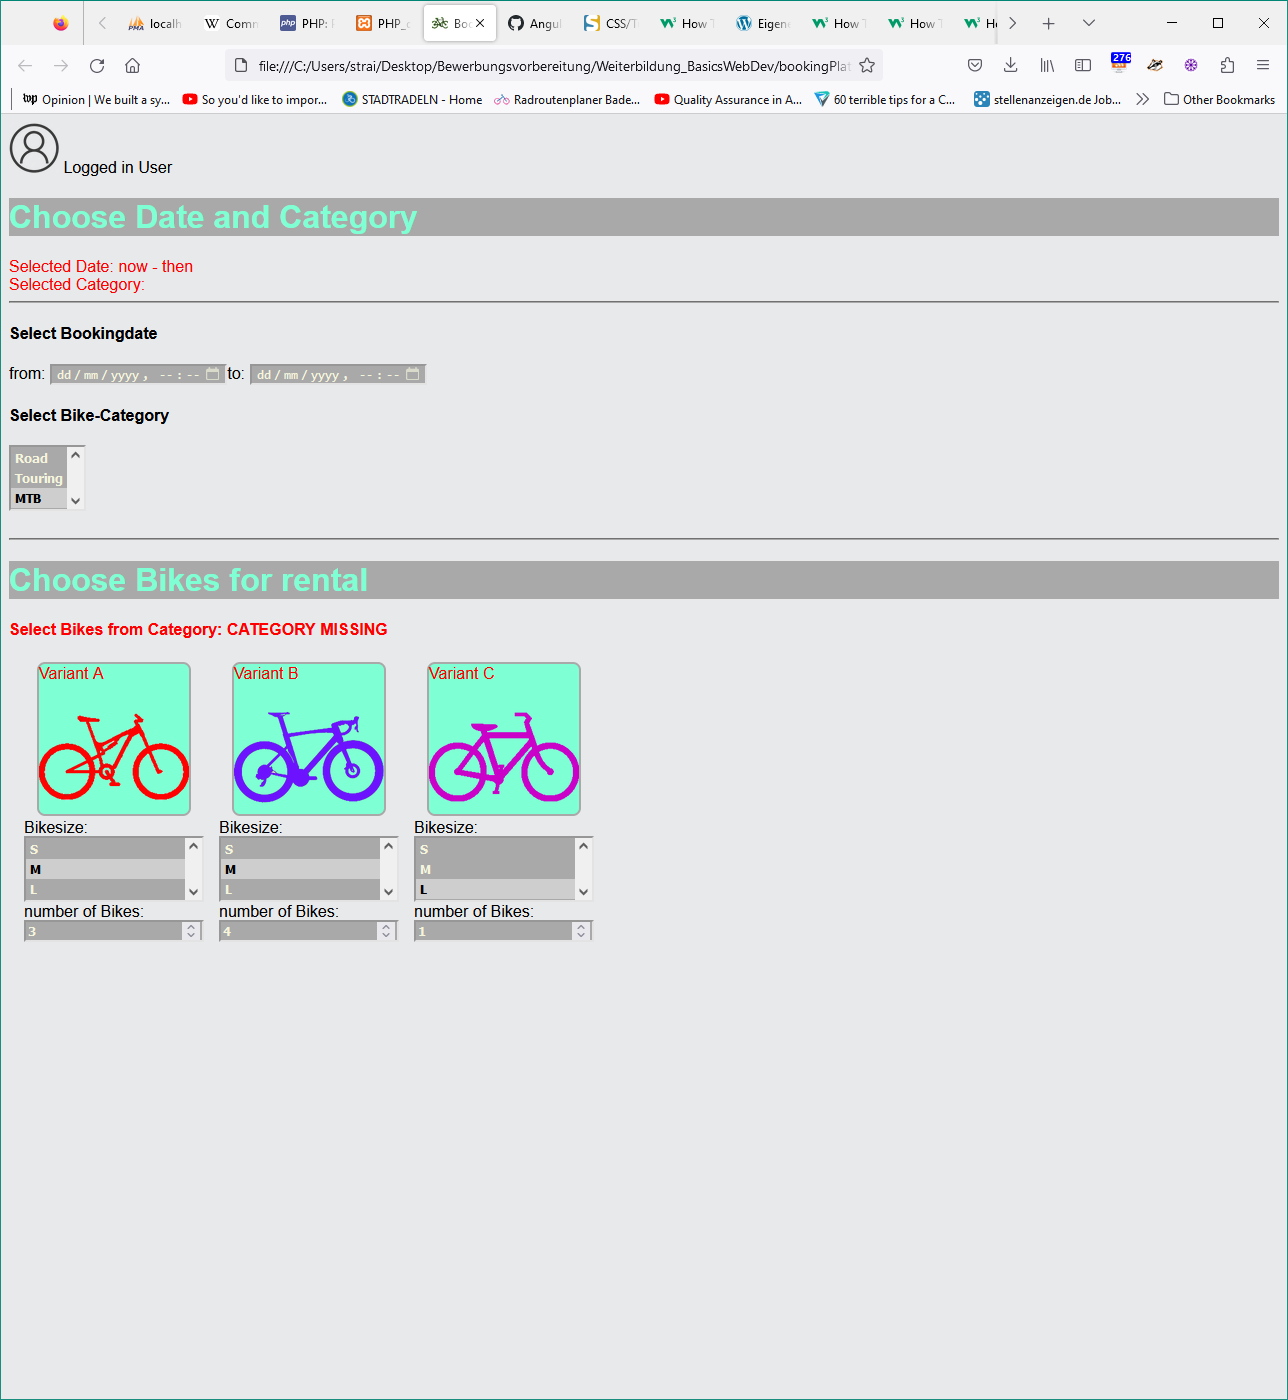
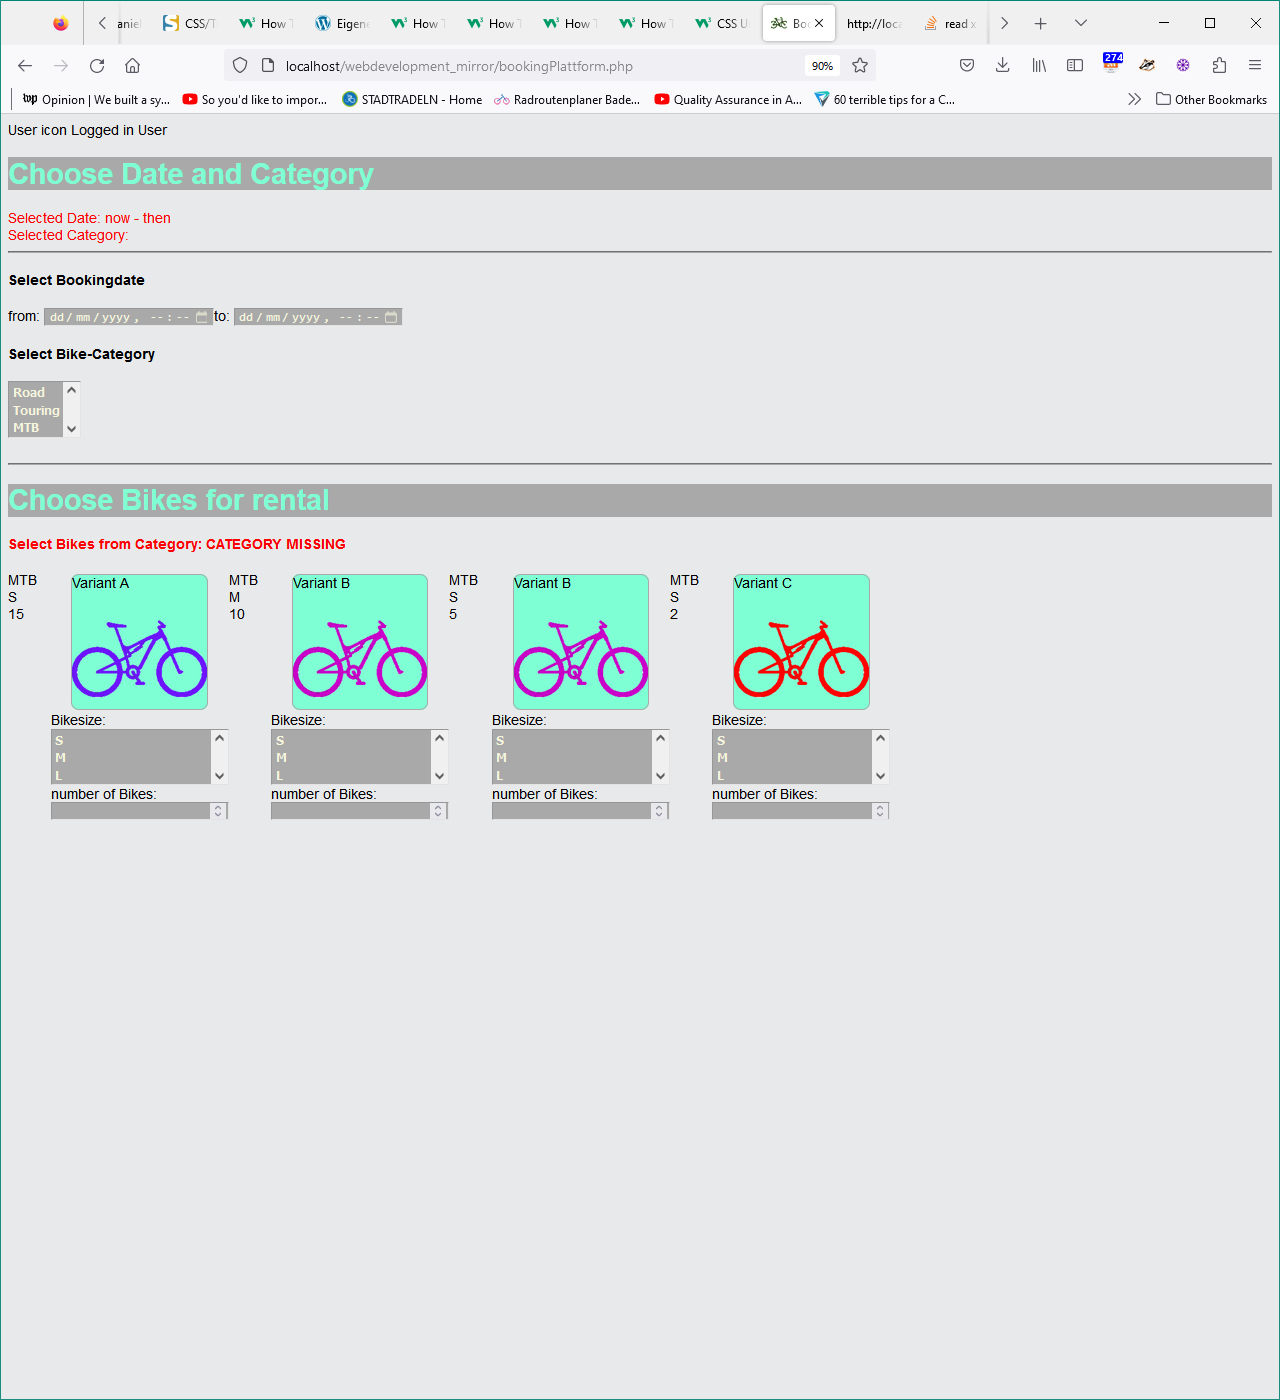
parse xml, dynamically create bike tiles, add php

Changed region(s): [[0.0, 0.0, 1.0, 0.6757], [0.0938, 0.0, 0.1562, 0.0307], [0.8438, 0.0307, 0.875, 0.0614]]

diff --git a/bookingPlattform.php b/bookingPlattform.php
@@ -35,7 +35,6 @@
             margin-left: 15px;
         }
         p.stubImage {
-            color: red;
             border:solid thick darkgray;  
             background: aquamarine; 
             border-radius: 0.5em; 
@@ -98,9 +97,29 @@
         <h1>Choose Bikes for rental</h1>
         <h4 class="todo">Select Bikes from Category: CATEGORY MISSING </h4>
         <div class="flexRow">
-                    <div class="bikeToChooseEntry">
-                        <p class="stubImage">Variant A
-                            <img class="dynamicHueImage0" src="./stub_mtb_category.png"  alt="stub mtb categoryicon" width="100%" heigt="auto">
+        <?php 
+            $xml=simplexml_load_file("./BikeStock.xml") or die("Error: Cannot create object");
+            foreach($xml as $node)
+            {
+                $category = $node->CATEGORY;
+                $size = $node->SIZE;
+                $inStock = $node->IN_STOCK;
+                echo "$category <br> $size <br> $inStock";
+                $variant = $node->VARIANT;
+                $hue = "dynamicHueImage0";
+                if($variant == "A")
+                {
+                    $hue = "dynamicHueImage270";
+                }
+                elseif($variant == "B")
+                {
+                    $hue = "dynamicHueImage300";
+                }
+                
+                echo <<<OWN
+                        <div class="bikeToChooseEntry">
+                        <p class="stubImage">Variant $variant
+                            <img class=$hue src="./stub_mtb_category.png"  alt="stub mtb categoryicon" width="100%" heigt="auto">
                         </p>
                         <label >Bikesize:
                         </label>
@@ -113,39 +132,10 @@
                             <label for="numberOfBikes">number of Bikes:</label><br>
                             <input type="number" id="numberOfBikes" name="numberOfBikes"><br>
                         </form>
-                    </div>
-                    <div class="bikeToChooseEntry">
-                        <p class="stubImage">Variant B
-                            <img class="dynamicHueImage270" src="./stub_mtb_category.png"  alt="stub road categoryicon" width="100%" heigt="auto">
-                        </p>
-                        <label >Bikesize:
-                        </label>
-                        <select name="bikeSize" size="3"> <!-- todo: make sure no additional values can be added / submitted lateron via HTML-->
-                            <option>S</option>
-                            <option>M</option>
-                            <option>L</option>
-                        </select>
-                        <form>
-                            <label for="numberOfBikes">number of Bikes:</label><br>
-                            <input type="number" id="numberOfBikes" name="numberOfBikes"><br>
-                        </form>
-                    </div>
-                    <div class="bikeToChooseEntry">
-                        <p class="stubImage">Variant C
-                            <img class="dynamicHueImage300" src="./stub_mtb_category.png"  alt="stub touring categoryicon" width="100%" heigt="auto">
-                        </p>
-                        <label >Bikesize:
-                        </label>
-                        <select name="bikeSize" size="3"> <!-- todo: make sure no additional values can be added / submitted lateron via HTML-->
-                            <option>S</option>
-                            <option>M</option>
-                            <option>L</option>
-                        </select>
-                        <form>
-                            <label for="numberOfBikes">number of Bikes:</label><br>
-                            <input type="number" id="numberOfBikes" name="numberOfBikes"><br>
-                        </form>
-                    </div>
-            </div>
+                        </div>
+                        OWN;
+            }
+        ?>
+        </div>
     </body>
 </html>
